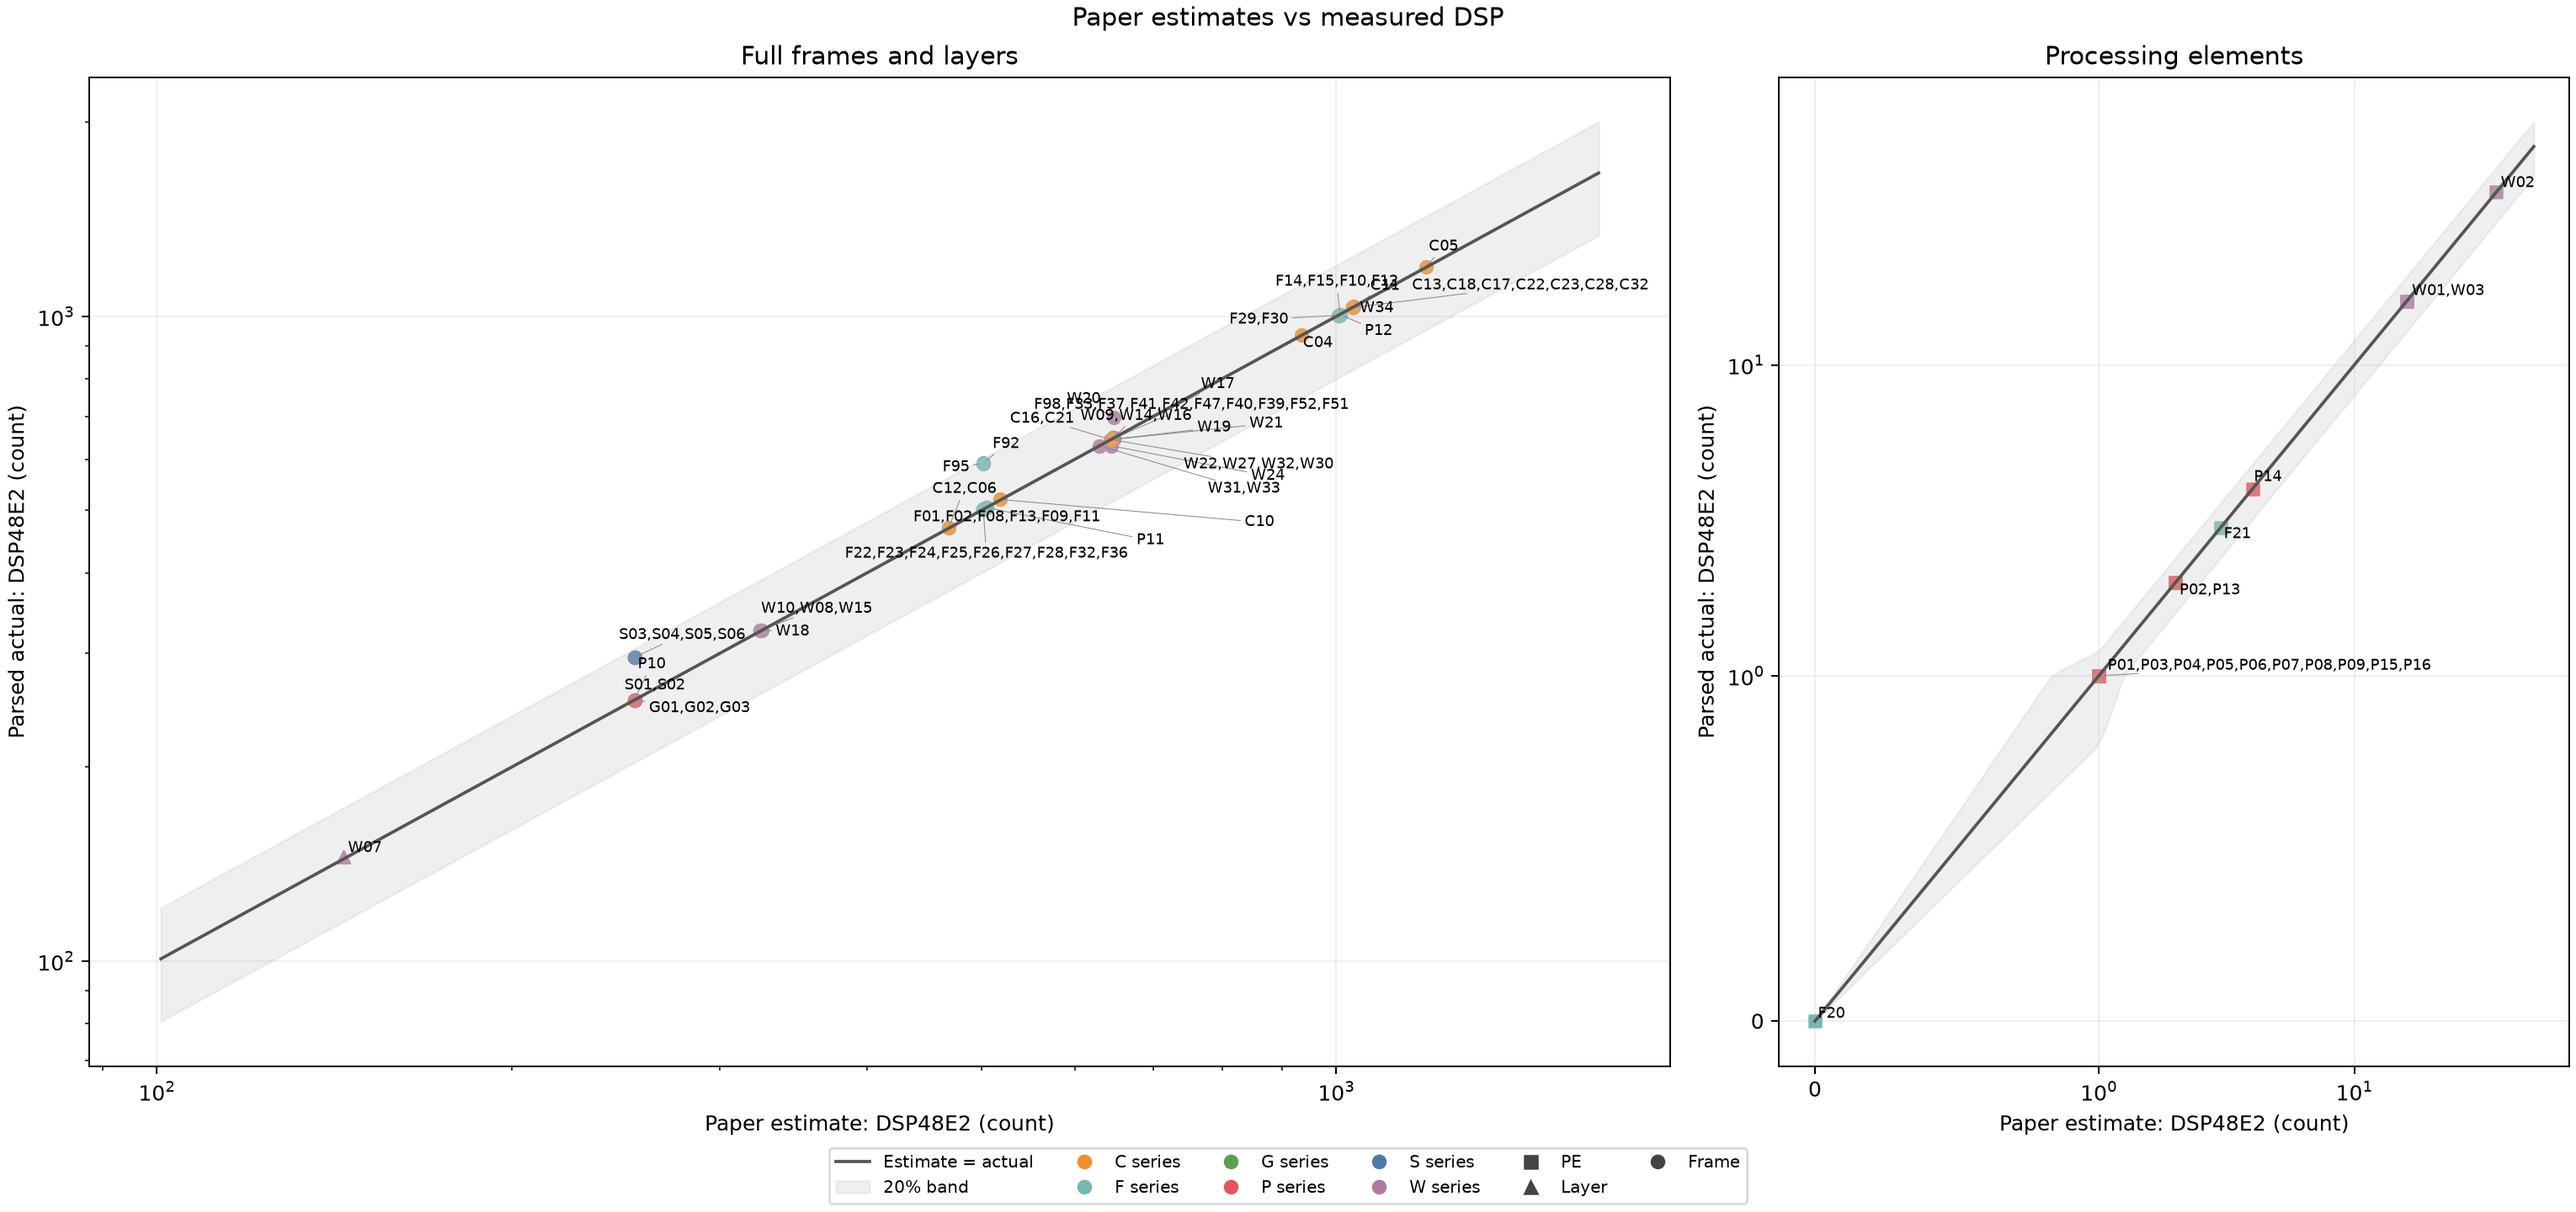
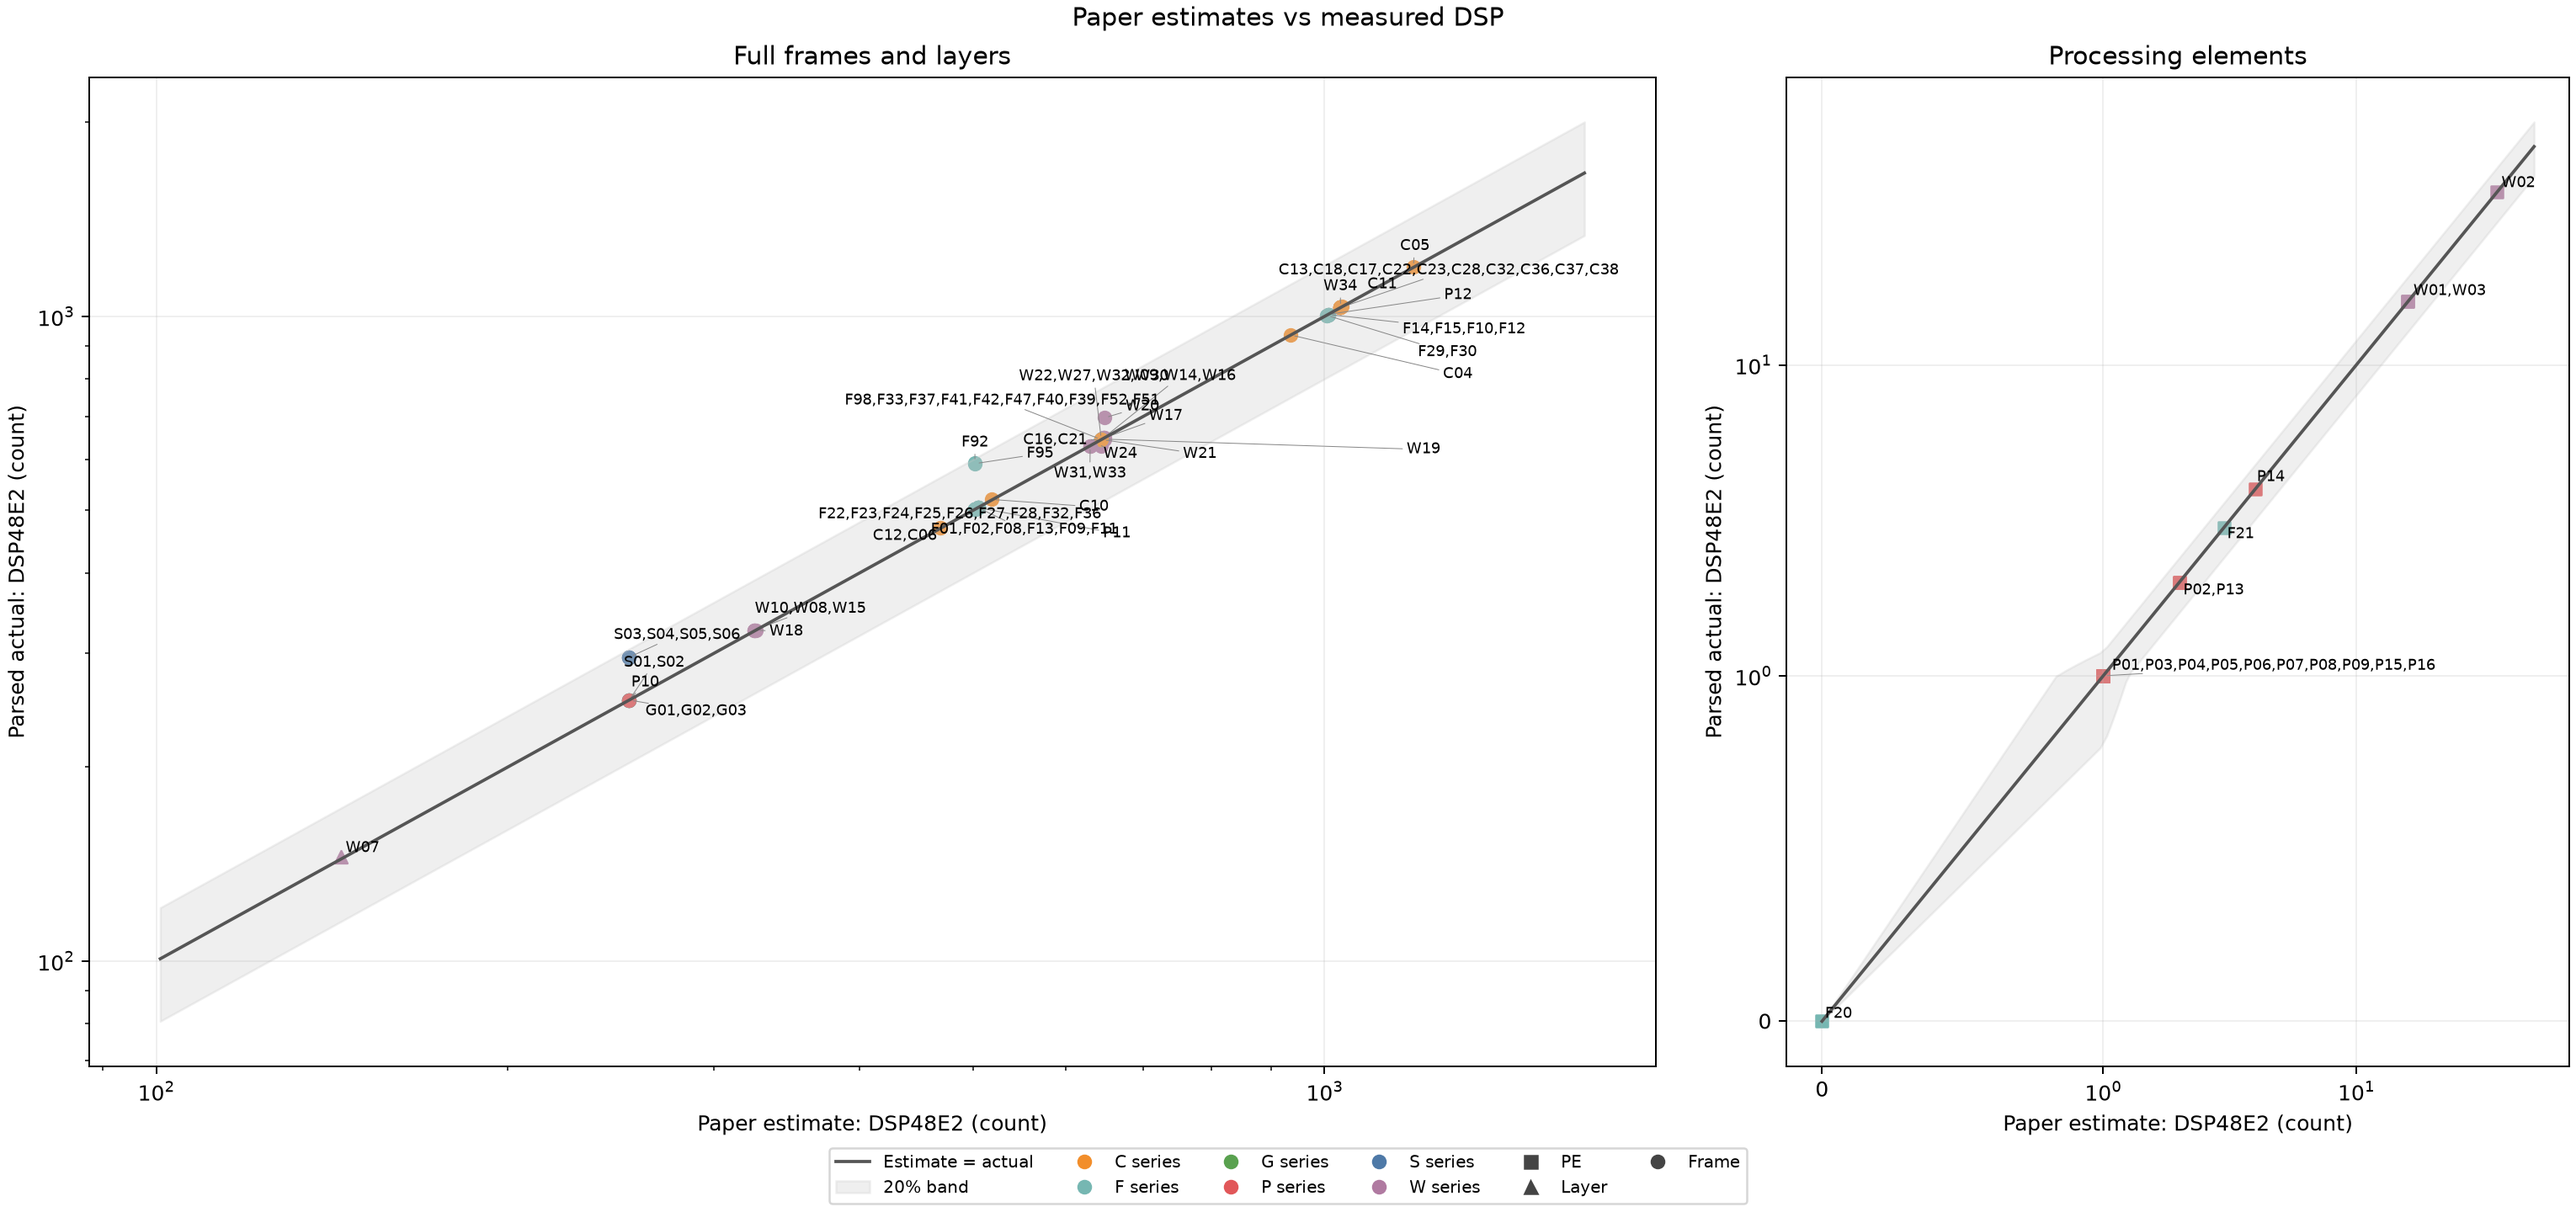
C39 plan_architecture_figure_label_readability

diff --git a/docs/0005-rom-clock-t4-plan.md b/docs/0005-rom-clock-t4-plan.md
@@ -516,6 +516,12 @@ W34 的实际证据见 `experiments/W34_t4_strategy_4p5_C17/implementation/threa
 图下注明代码含义，图宽随点数增加；柱顶只标数值，避免重复 ID 和多行范围互相遮挡。
 这项展示修订先提交计划，再修改绘图脚本并检查生成图；测量字段和验收门槛不变。
 
+全架构 Pareto 图在新增 C37/C38 后，低延迟区域的完整精度字符串相互遮挡。
+展示修订先提交本计划：保留所有 CSV 数据点、实验 ID、T、精度和判定，
+只用较短的精度显示名称、折行长 ID 组，并把图例作为标签排布的避让对象。
+同坐标的点只在 series、T、精度及判定都相同时合并显示；完整精度仍保留在 CSV。
+生成后检查 PNG 的标签、图例和坐标单位，不为样式调整增加硬件实验或修改历史结果。
+
 W34 最终在实际单线程下完成，但4.5ns 的 WNS=-0.324ns，没有收敛。
 用新 ID W36 对冻结 C17 RTL 补做原计划的四线程策略对照；保留 W34 原结果和
 线程诊断，不覆盖其工作区。W36 先提交独立纸面计划，排在优先 WS-G 的 C35/C36
